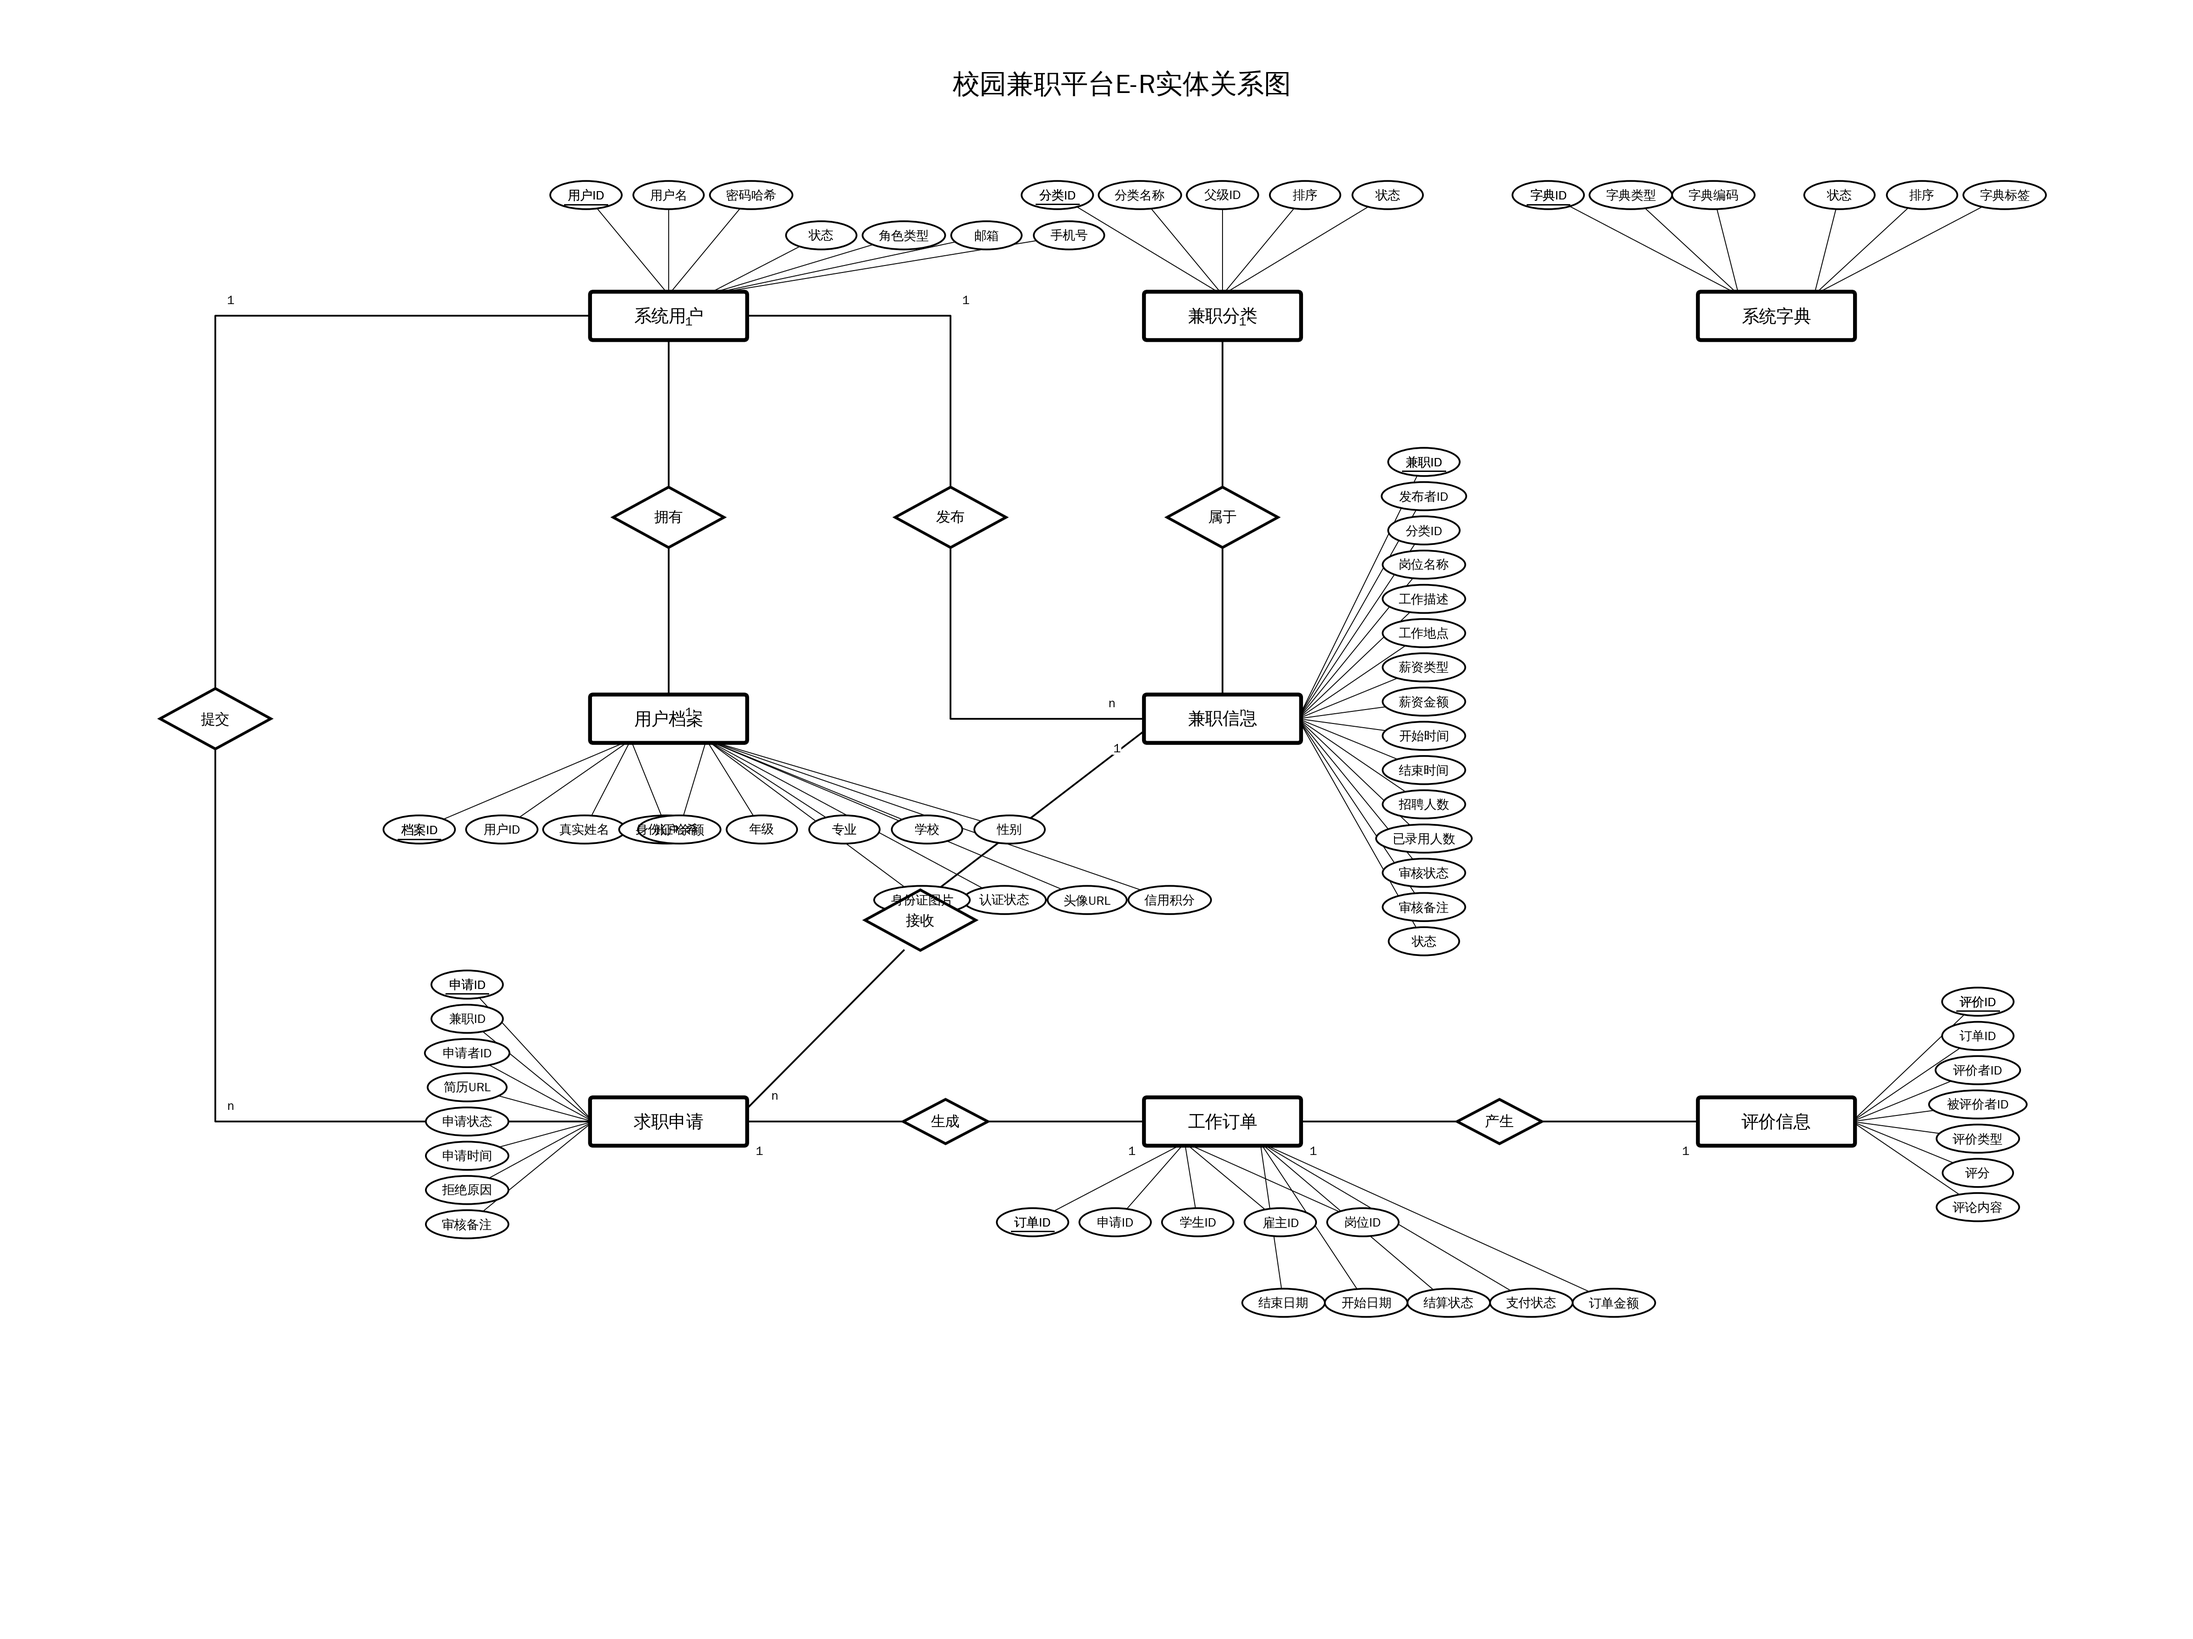
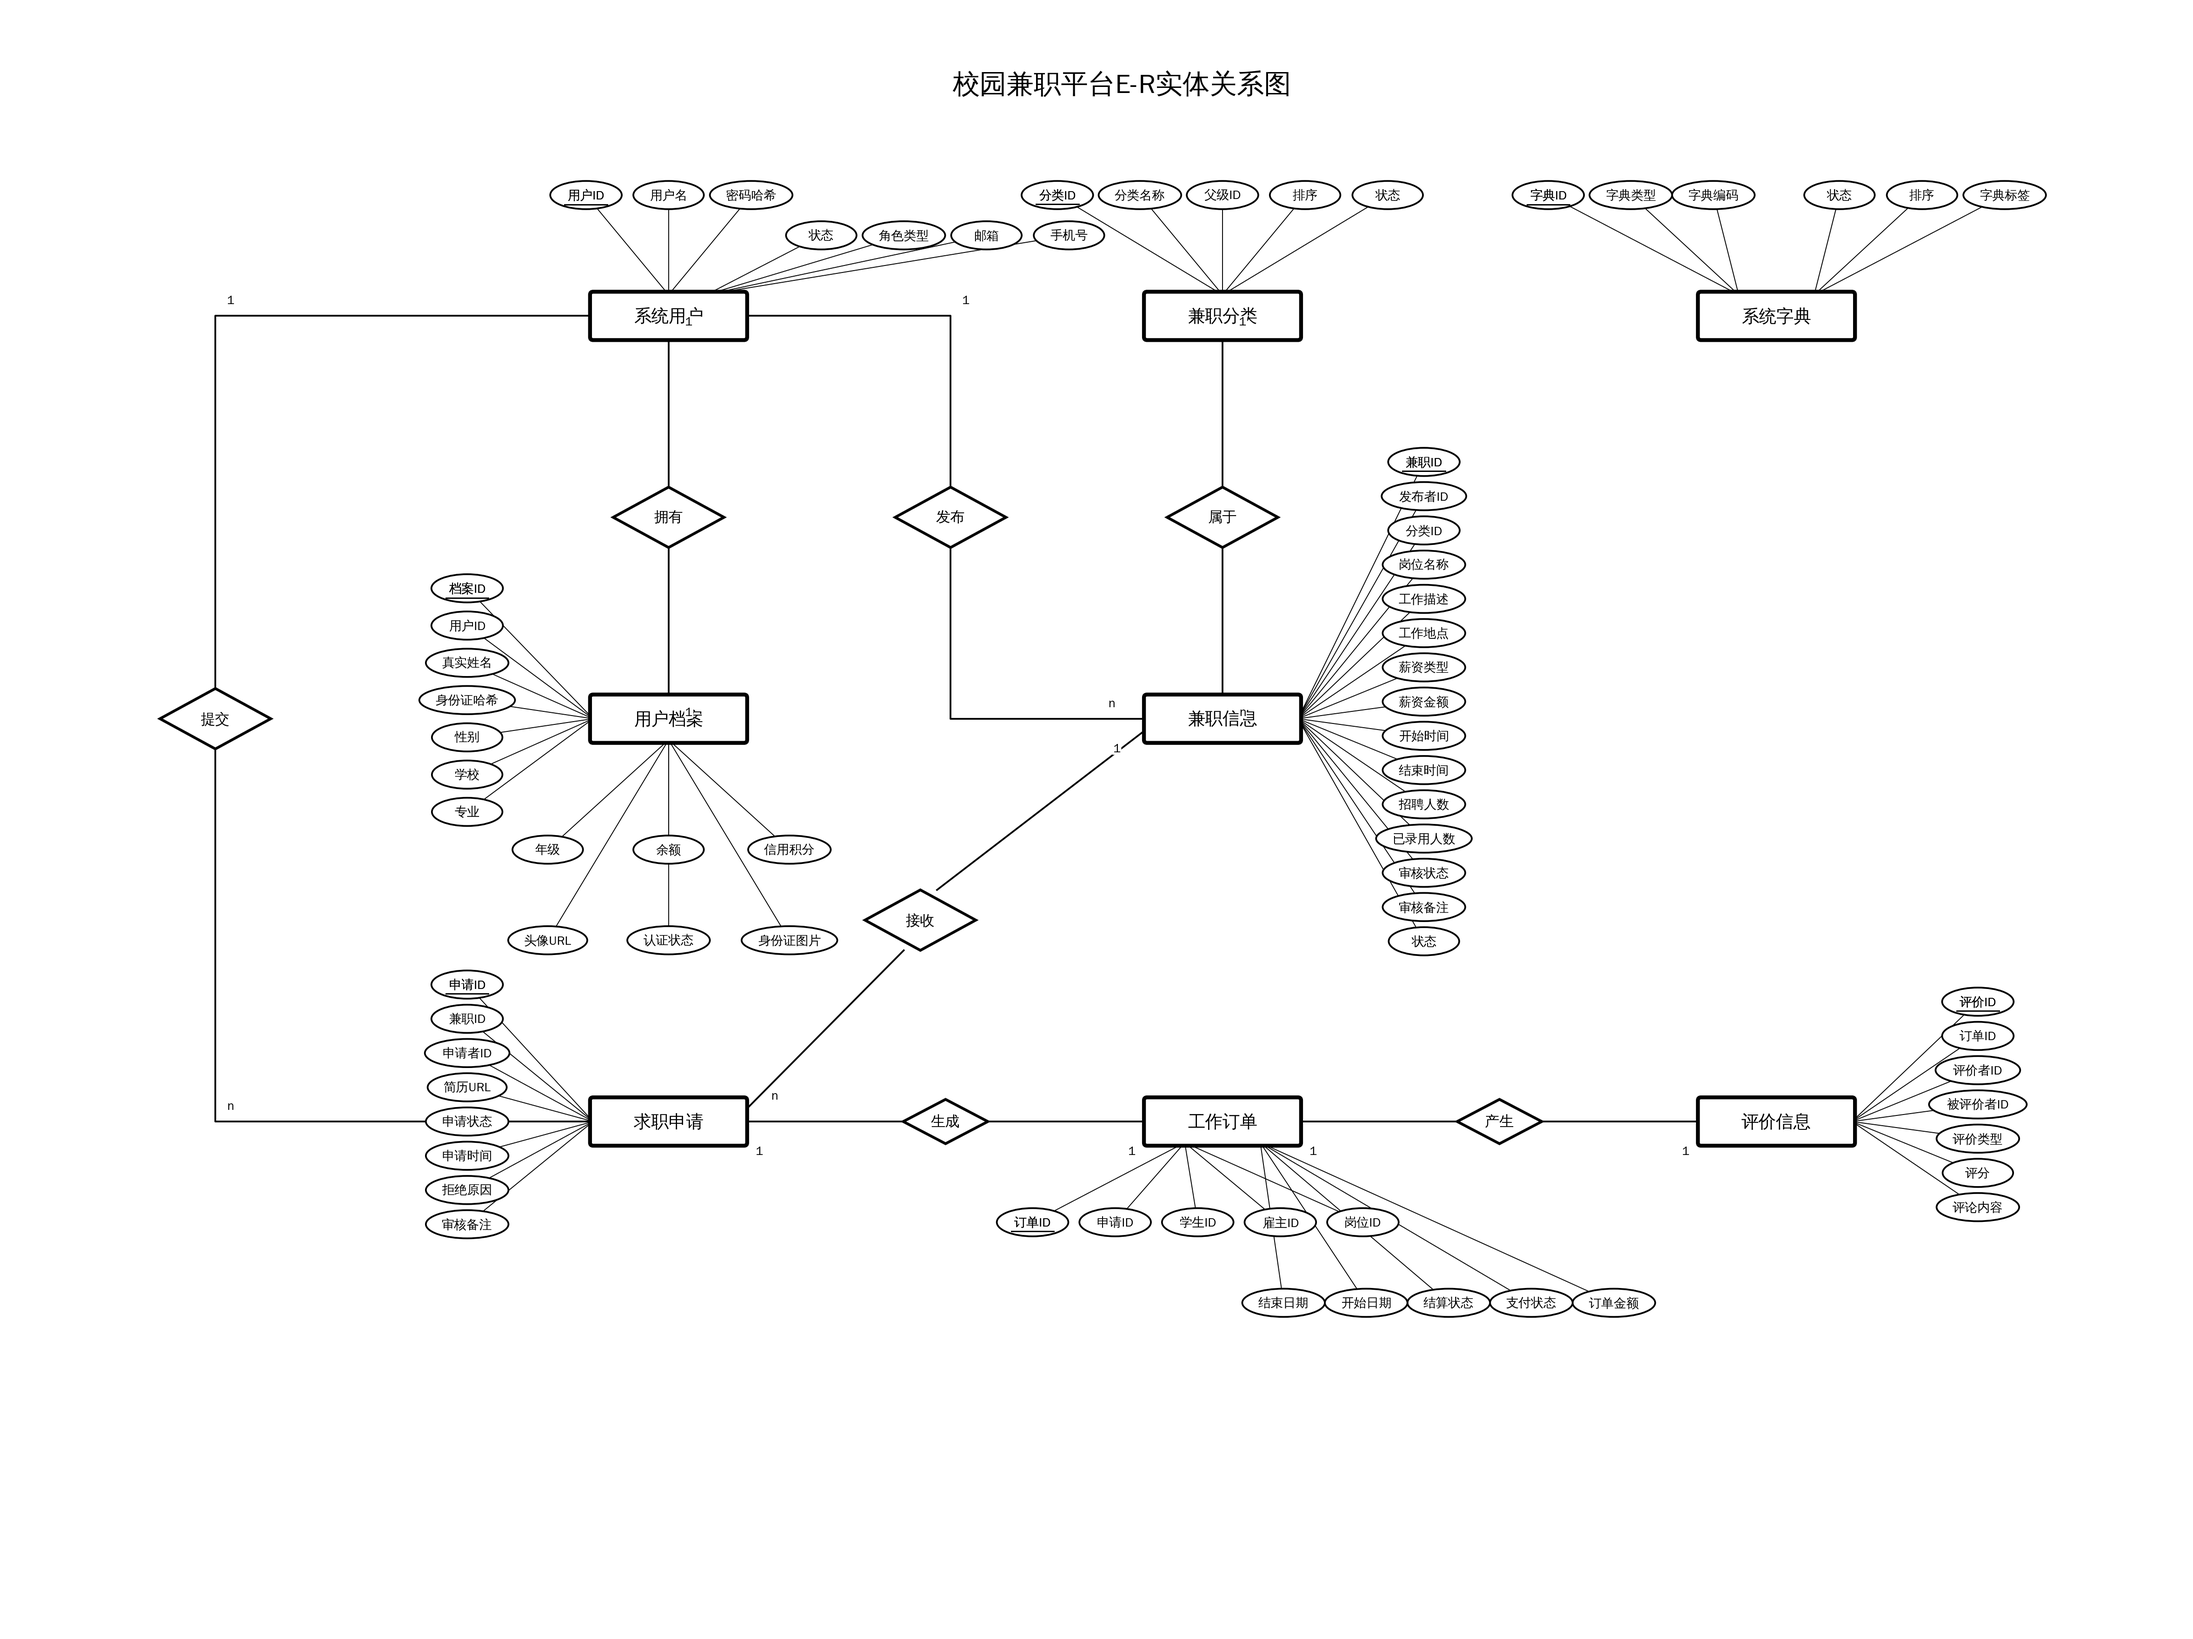
fix: 修复用户档案属性椭圆重叠问题
- 将用户档案13个属性改为左侧竖排7个+下方两排各3个的布局
- 消除属性椭圆之间的重叠现象
- VLM验证确认无重叠、文字清晰可读

Changed region(s): [[0.187, 0.3433, 0.5611, 0.5617], [0.3429, 0.5617, 0.374, 0.5929], [0.2805, 0.5617, 0.3117, 0.5929]]

diff --git a/download/thesis_images/gen_er_diagram_full.py b/download/thesis_images/gen_er_diagram_full.py
@@ -228,18 +228,28 @@ attrs_row(EX3 + 1.2, EY3 + 1.2, EX3, EY3,
           ['字典标签', '排序', '状态'], pk_index=-1, direction='top-right', spacing=SP)
 
 # ── 用户档案 (3, 7) — 13 attrs ────────────────────────────────────────
-#    BOTTOM-L: 档案ID(PK), 用户ID, 真实姓名, 身份证哈希
-#    BOTTOM-R: 性别, 学校, 专业, 年级, 账户余额
-#    BOTTOM-R2: 信用积分, 头像URL, 认证状态, 身份证图片
-attrs_row(EX1 - 1.0, EY4 - 1.1, EX4, EY4,
-          ['档案ID', '用户ID', '真实姓名', '身份证哈希'],
-          pk_index=0, direction='bottom-left', spacing=SP)
-attrs_row(EX4 + 1.5, EY4 - 1.1, EX4, EY4,
-          ['性别', '学校', '专业', '年级', '账户余额'],
-          pk_index=-1, direction='bottom-right', spacing=SP)
-attrs_row(EX4 + 3.5, EY4 - 1.8, EX4, EY4,
-          ['信用积分', '头像URL', '认证状态', '身份证图片'],
-          pk_index=-1, direction='bottom-right', spacing=SP)
+#    LEFT vertical (x=1.0): first 7 attrs (avoids R3 corridor at x=-1.5)
+#    BOTTOM two rows of 3: remaining 6 attrs
+profile_left = ['档案ID', '用户ID', '真实姓名', '身份证哈希', '性别', '学校', '专业']
+profile_bot1 = ['年级', '余额', '信用积分']
+profile_bot2 = ['头像URL', '认证状态', '身份证图片']
+pl_start = EY4 + len(profile_left) * 0.37 / 2
+for i, name in enumerate(profile_left):
+    is_pk = (i == 0)
+    draw_attribute(EX4 - 2.0, pl_start - i * 0.37, name, is_pk=is_pk)
+    attr_conn(EX4 - 2.0, pl_start - i * 0.37, EX4 - ENT_W/2, EY4)
+# bottom row 1
+pb1_sp = 1.2
+pb1_sx = EX4 - (len(profile_bot1) - 1) * pb1_sp / 2
+for i, name in enumerate(profile_bot1):
+    draw_attribute(pb1_sx + i * pb1_sp, EY4 - 1.3, name)
+    attr_conn(pb1_sx + i * pb1_sp, EY4 - 1.3, EX4, EY4 - ENT_H/2)
+# bottom row 2
+pb2_sp = 1.2
+pb2_sx = EX4 - (len(profile_bot2) - 1) * pb2_sp / 2
+for i, name in enumerate(profile_bot2):
+    draw_attribute(pb2_sx + i * pb2_sp, EY4 - 2.2, name)
+    attr_conn(pb2_sx + i * pb2_sp, EY4 - 2.2, EX4, EY4 - ENT_H/2)
 
 # ── 兼职信息 (8.5, 7) — 16 attrs ──────────────────────────────────────
 #    RIGHT (vertical): 兼职ID(PK), 发布者ID, 分类ID, 岗位名称,
